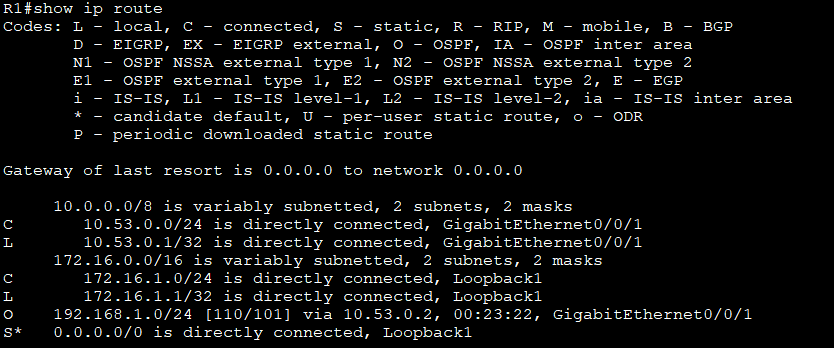
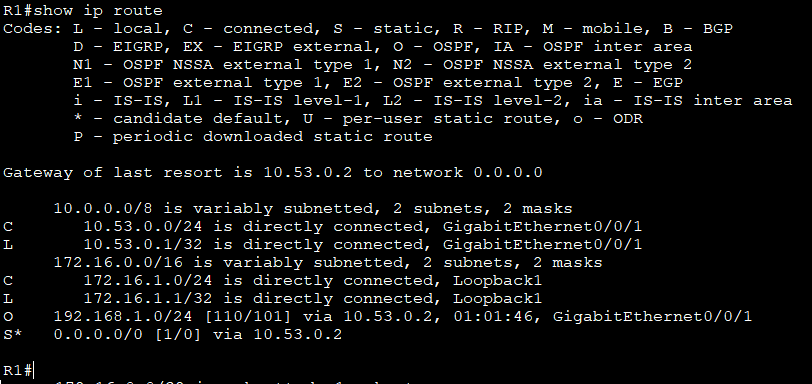
6

diff --git a/Лабораторные работы/10/readme.md b/Лабораторные работы/10/readme.md
@@ -155,7 +155,7 @@ interface loopback 1
 ip address 172.16.1.1 255.255.255.0
 exit
 
-ip route 0.0.0.0 0.0.0.0 loopback 1
+ip route 0.0.0.0 0.0.0.0 10.53.0.2
 
 router ospf 56
 default-information originate
